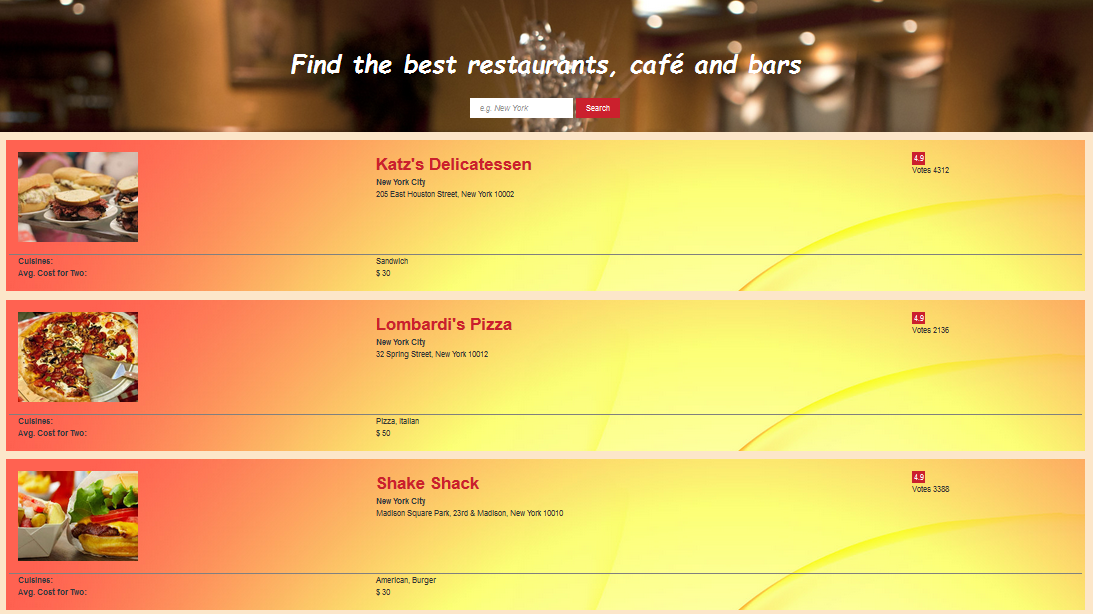
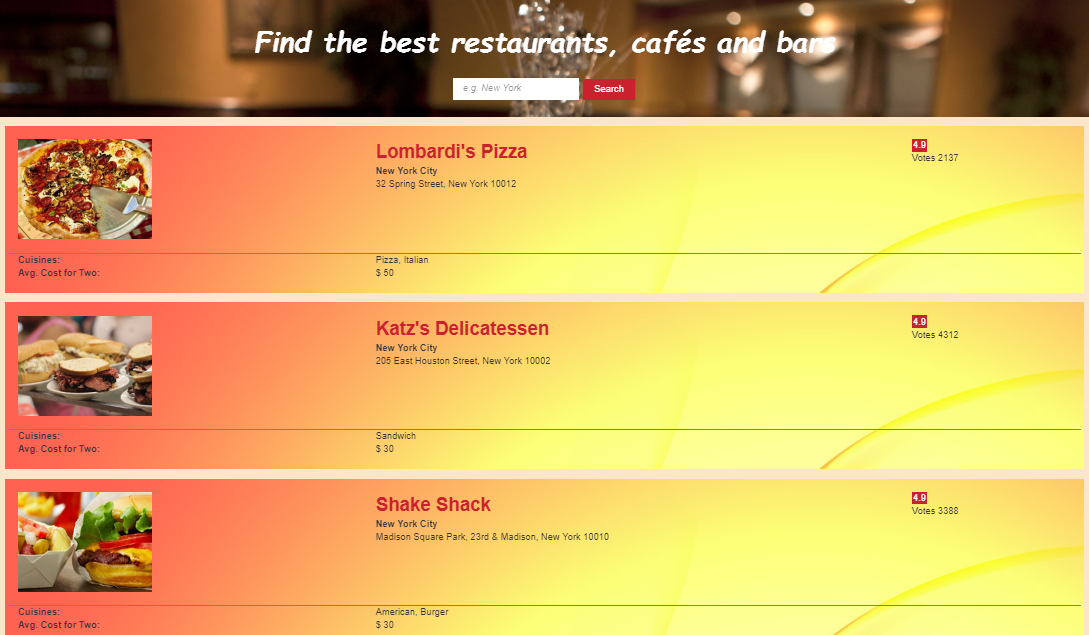
Image

diff --git a/index.html b/index.html
@@ -23,7 +23,7 @@
 	 <div id="img" class="zimagery">
 	
 		 <div class="row ">
-		  <h4 class="col-xs-12 middle  fontsize10 margintop">   Find the best restaurants, caf&#233; and bars</h4>
+		  <h4 class="col-xs-12 middle  fontsize10 margintop">   Find the best restaurants, caf&#233;s and bars</h4>
 		 	<!-- <div class="col-xs-2"></div> -->
 			 <div class="col-xs-12 middletextbox">
 				 <div   class="fontsize5 inlineb " > 
